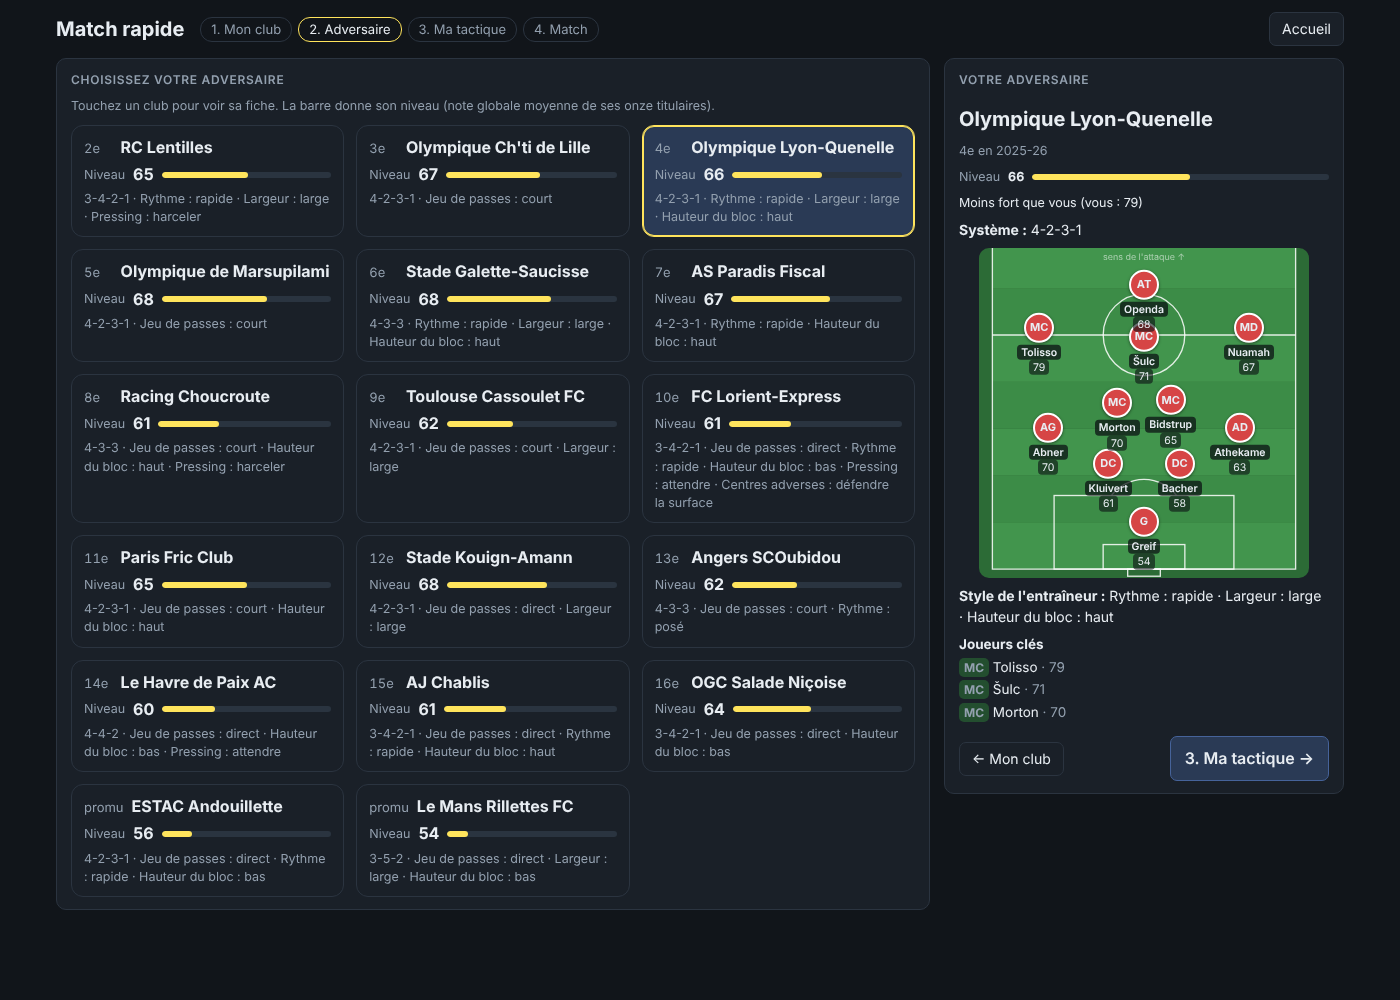
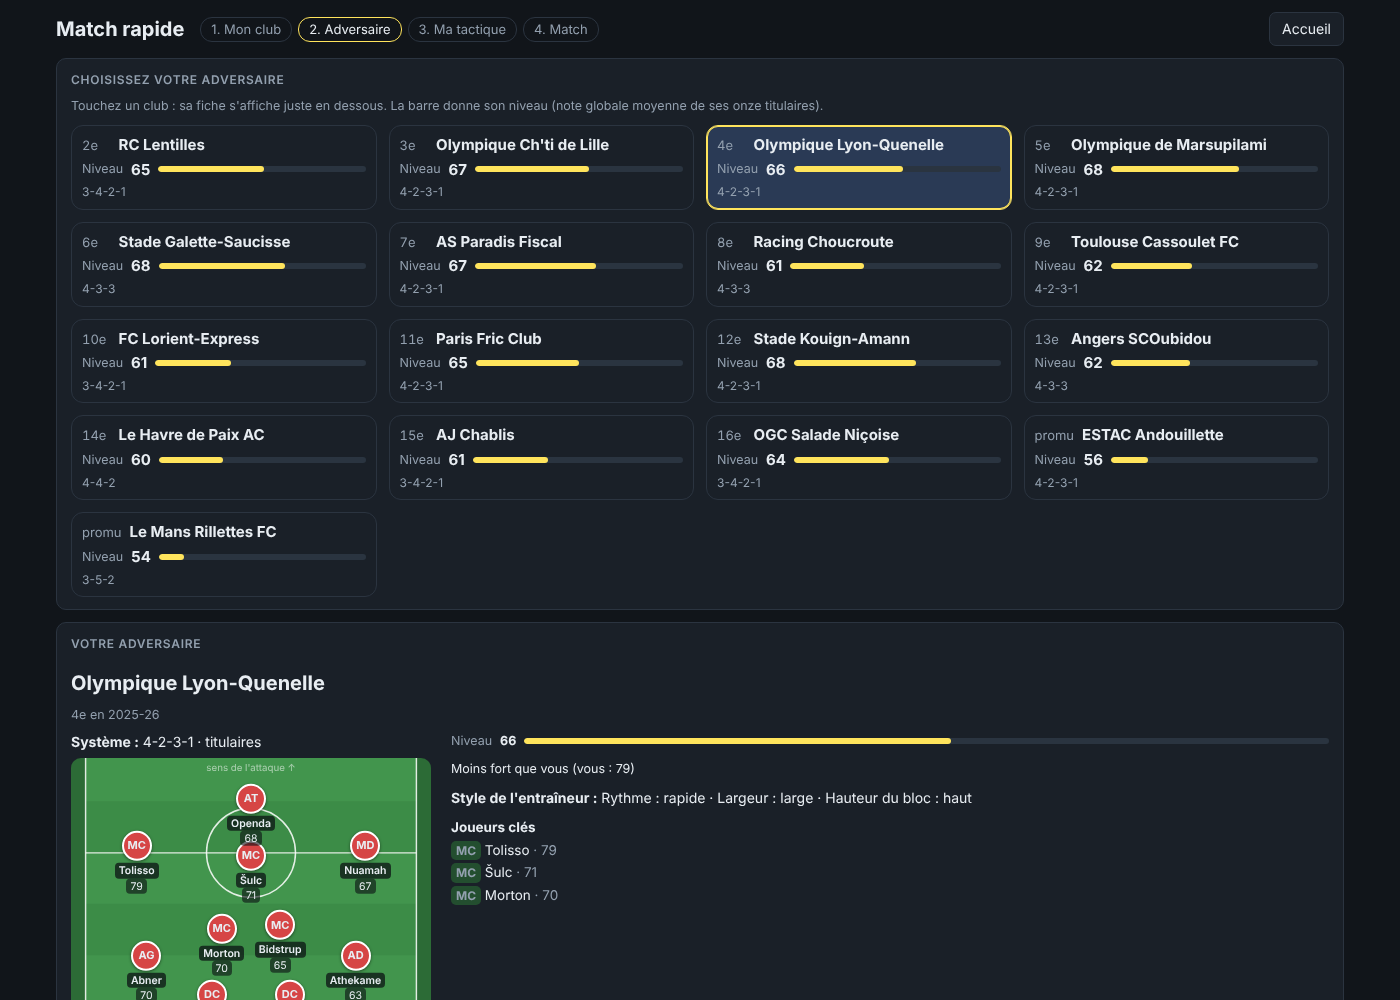
Page Adversaire : le choix de l'équipe en haut, sa fiche (système, titulaires, niveau, style) juste en dessous ; clubs sur une ligne à faire défiler sur téléphone (n° 139)
Claude-Session: https://claude.ai/code/session_018L9abibPrDnUhtDhDN8MfU

diff --git a/construction.html b/construction.html
@@ -33,25 +33,29 @@
   .clubmode header .steps span.off { opacity: .45; cursor: default; }
   .clubmode .noclub, body:not(.clubmode) .onlyclub { display: none !important; }
   /* étape 2 : l'adversaire (n° 138) — liste des clubs à gauche, sa fiche à droite (système, onze, niveau, style, joueurs clés) */
-  .advwrap { display: grid; grid-template-columns: minmax(0, 1fr) 400px; gap: 12px 14px; align-items: start; }
-  .advs { grid-template-columns: repeat(auto-fill, minmax(220px, 1fr)); gap: 10px; }
-  .advs .club { padding: 10px 12px; }
-  .advs .club b { font-size: 16px; }
+  /* n° 139 (remarque de Frédéric) : le choix de l'équipe en haut, la fiche de l'adversaire (tactique, titulaires) juste en dessous */
+  .advwrap { display: flex; flex-direction: column; gap: 12px; }
+  .advs { grid-template-columns: repeat(auto-fill, minmax(190px, 1fr)); gap: 8px; }
+  .advs .club { padding: 8px 10px; gap: 3px; }
+  .advs .club b { font-size: 15px; }
+  .advs .club .stars { font-size: 12px; }
+  .advgrid { display: grid; grid-template-columns: minmax(0, 360px) minmax(0, 1fr); gap: 12px 20px; align-items: start; }
+  .advinfo { display: flex; flex-direction: column; gap: 10px; }
   .advs .club.on { border-color: var(--accent); box-shadow: 0 0 0 1px var(--accent) inset; }
   .advs .club.mine { opacity: .45; cursor: default; }
   .lvl { display: flex; align-items: center; gap: 8px; font-size: 12.5px; color: var(--muted); }
   .lvl i { flex: 1; height: 6px; border-radius: 3px; background: #2a3440; overflow: hidden; display: block; min-width: 40px; }
   .lvl i b { display: block; height: 100%; border-radius: 3px; background: var(--accent); }
-  .advd { position: sticky; top: 10px; display: flex; flex-direction: column; gap: 8px; }
+  .advd { display: flex; flex-direction: column; gap: 8px; }
   .advd .who { font-size: 20px; font-weight: 650; }
-  .advd .pitch { max-width: 330px; margin: 0 auto; }
+  .advd .pitch { max-width: 360px; margin: 0 auto; }
   .advd .tok { cursor: default; }
   .advd .tok .ball { background: var(--red, #d64545); width: 30px; height: 30px; font-size: 11px; }
   .advd .spot { width: 70px; }
   .advd .tok .nm { max-width: 70px; font-size: 10.5px; }
   .advd .keys { display: flex; flex-direction: column; gap: 3px; font-size: 13.5px; }
   .advd .keys span { color: var(--muted); }
-  .advd .row { justify-content: space-between; }
+  .advd .row { justify-content: flex-end; gap: 10px; }
   .advsum { font-size: 14px; }
   .advsum b { font-size: 15px; }
   header .right { margin-left: auto; }
@@ -166,7 +170,11 @@
 
   @media (max-width: 900px) {
     .buy, .tac, .advwrap { grid-template-columns: minmax(0, 1fr); }
-    .advd { position: static; order: -1; }
+    /* téléphone, tablette : les clubs sur une ligne qu'on fait défiler du doigt, la fiche juste dessous */
+    .advs { display: flex; overflow-x: auto; scroll-snap-type: x proximity; padding-bottom: 6px; -webkit-overflow-scrolling: touch; }
+    .advs .club { flex: 0 0 168px; scroll-snap-align: start; }
+    .advgrid { grid-template-columns: minmax(0, 1fr); }
+    .advd .row { justify-content: space-between; }
     .home { grid-template-columns: 1fr; margin-top: 3vh; }
     .list { max-height: none; }
     .valid { margin-left: 0; justify-content: flex-start; }
@@ -205,7 +213,7 @@
     <div class="advwrap">
       <div class="card">
         <h2>Choisissez votre adversaire</h2>
-        <p class="hint" style="margin:0 0 10px">Touchez un club pour voir sa fiche. La barre donne son niveau (note globale moyenne de ses onze titulaires).</p>
+        <p class="hint" style="margin:0 0 10px">Touchez un club : sa fiche s'affiche juste en dessous. La barre donne son niveau (note globale moyenne de ses onze titulaires).</p>
         <div class="clubs advs" id="advs"></div>
       </div>
       <div class="card advd" id="advD"></div>
@@ -472,7 +480,7 @@ const rang = C => C.classement ? C.classement + (C.classement === 1 ? 'er' : 'e'
 function drawAdv() {
   const mine = CLUBS.find(C => C.id === S.club);
   $('advs').innerHTML = CLUBS.map(C => C.id === S.club ? '' : '<button class="club' + (C.id === S.adv ? ' on' : '') + '" data-adv="' + esc(C.id) + '"><div class="top"><span class="rk">' + (C.classement ? C.classement + (C.classement === 1 ? 'er' : 'e') : 'promu') + '</span><b>' + esc(C.nom) + '</b></div>'
-    + levelBar(C) + '<div class="stars">' + esc(formName(C)) + ' · ' + esc(styleOf(C)) + '</div></button>').join('');
+    + levelBar(C) + '<div class="stars">' + esc(formName(C)) + '</div></button>').join('');      // le style est dans la fiche, juste dessous
   const C = CLUBS.find(x => x.id === S.adv); if (!C) { $('advD').innerHTML = '<span class="muted">Choisissez un club.</span>'; return; }
   const F = D.formations.find(f => f.id === C.formation) || D.formations[0];
   let h = pitchSvg();
@@ -480,14 +488,14 @@ function drawAdv() {
   const m = moyenne(C.titulaires), me = mine ? moyenne(mine.titulaires) : null, d = me == null ? 0 : Math.round(m - me);
   const keys = C.titulaires.slice().sort((a, b) => b.note - a.note).slice(0, 3);
   $('advD').innerHTML = '<h2>Votre adversaire</h2><div class="who">' + esc(C.nom) + '</div><div class="small muted">' + rang(C) + '</div>'
-    + levelBar(C) + (me == null ? '' : '<div class="small">' + (Math.abs(d) <= 2 ? 'Niveau proche du vôtre (' : d > 0 ? 'Plus fort que vous (' : 'Moins fort que vous (') + 'vous : ' + fmtN(me) + ')</div>')
-    + '<div><b>Système :</b> ' + esc(F.name) + '</div><div class="pitch">' + h + '</div>'
+    + '<div class="advgrid"><div><div style="margin-bottom:6px"><b>Système :</b> ' + esc(F.name) + ' · titulaires</div><div class="pitch">' + h + '</div></div>'
+    + '<div class="advinfo">' + levelBar(C) + (me == null ? '' : '<div class="small">' + (Math.abs(d) <= 2 ? 'Niveau proche du vôtre (' : d > 0 ? 'Plus fort que vous (' : 'Moins fort que vous (') + 'vous : ' + fmtN(me) + ')</div>')
     + '<div><b>Style de l\'entraîneur :</b> ' + esc(styleOf(C)) + '</div>'
-    + '<div class="keys"><b>Joueurs clés</b>' + keys.map(j => '<div>' + tag(j.poste) + ' ' + esc(j.nom) + ' <span>· ' + fmtN(j.note) + '</span></div>').join('') + '</div>'
+    + '<div class="keys"><b>Joueurs clés</b>' + keys.map(j => '<div>' + tag(j.poste) + ' ' + esc(j.nom) + ' <span>· ' + fmtN(j.note) + '</span></div>').join('') + '</div></div></div>'
     + '<div class="row" style="margin-top:6px"><button id="advBack">← Mon club</button><button class="main go-btn" id="advNext">3. Ma tactique →</button></div>';
 }
 document.addEventListener('click', e => {
-  const b = e.target.closest('[data-adv]'); if (b && b.closest('#vAdv')) { S.adv = b.dataset.adv; drawAdv(); if (window.innerWidth <= 900) $('advD').scrollIntoView({ behavior: 'smooth' }); return; }
+  const b = e.target.closest('[data-adv]'); if (b && b.closest('#vAdv')) { const x = $('advs').scrollLeft; S.adv = b.dataset.adv; drawAdv(); $('advs').scrollLeft = x; return; }
   if (e.target.id === 'advNext') { save(); show('vTac'); }
   else if (e.target.id === 'advBack') show('vClubs');
 });

diff --git a/equipe.html b/equipe.html
@@ -33,25 +33,29 @@
   .clubmode header .steps span.off { opacity: .45; cursor: default; }
   .clubmode .noclub, body:not(.clubmode) .onlyclub { display: none !important; }
   /* étape 2 : l'adversaire (n° 138) — liste des clubs à gauche, sa fiche à droite (système, onze, niveau, style, joueurs clés) */
-  .advwrap { display: grid; grid-template-columns: minmax(0, 1fr) 400px; gap: 12px 14px; align-items: start; }
-  .advs { grid-template-columns: repeat(auto-fill, minmax(220px, 1fr)); gap: 10px; }
-  .advs .club { padding: 10px 12px; }
-  .advs .club b { font-size: 16px; }
+  /* n° 139 (remarque de Frédéric) : le choix de l'équipe en haut, la fiche de l'adversaire (tactique, titulaires) juste en dessous */
+  .advwrap { display: flex; flex-direction: column; gap: 12px; }
+  .advs { grid-template-columns: repeat(auto-fill, minmax(190px, 1fr)); gap: 8px; }
+  .advs .club { padding: 8px 10px; gap: 3px; }
+  .advs .club b { font-size: 15px; }
+  .advs .club .stars { font-size: 12px; }
+  .advgrid { display: grid; grid-template-columns: minmax(0, 360px) minmax(0, 1fr); gap: 12px 20px; align-items: start; }
+  .advinfo { display: flex; flex-direction: column; gap: 10px; }
   .advs .club.on { border-color: var(--accent); box-shadow: 0 0 0 1px var(--accent) inset; }
   .advs .club.mine { opacity: .45; cursor: default; }
   .lvl { display: flex; align-items: center; gap: 8px; font-size: 12.5px; color: var(--muted); }
   .lvl i { flex: 1; height: 6px; border-radius: 3px; background: #2a3440; overflow: hidden; display: block; min-width: 40px; }
   .lvl i b { display: block; height: 100%; border-radius: 3px; background: var(--accent); }
-  .advd { position: sticky; top: 10px; display: flex; flex-direction: column; gap: 8px; }
+  .advd { display: flex; flex-direction: column; gap: 8px; }
   .advd .who { font-size: 20px; font-weight: 650; }
-  .advd .pitch { max-width: 330px; margin: 0 auto; }
+  .advd .pitch { max-width: 360px; margin: 0 auto; }
   .advd .tok { cursor: default; }
   .advd .tok .ball { background: var(--red, #d64545); width: 30px; height: 30px; font-size: 11px; }
   .advd .spot { width: 70px; }
   .advd .tok .nm { max-width: 70px; font-size: 10.5px; }
   .advd .keys { display: flex; flex-direction: column; gap: 3px; font-size: 13.5px; }
   .advd .keys span { color: var(--muted); }
-  .advd .row { justify-content: space-between; }
+  .advd .row { justify-content: flex-end; gap: 10px; }
   .advsum { font-size: 14px; }
   .advsum b { font-size: 15px; }
   header .right { margin-left: auto; }
@@ -166,7 +170,11 @@
 
   @media (max-width: 900px) {
     .buy, .tac, .advwrap { grid-template-columns: minmax(0, 1fr); }
-    .advd { position: static; order: -1; }
+    /* téléphone, tablette : les clubs sur une ligne qu'on fait défiler du doigt, la fiche juste dessous */
+    .advs { display: flex; overflow-x: auto; scroll-snap-type: x proximity; padding-bottom: 6px; -webkit-overflow-scrolling: touch; }
+    .advs .club { flex: 0 0 168px; scroll-snap-align: start; }
+    .advgrid { grid-template-columns: minmax(0, 1fr); }
+    .advd .row { justify-content: space-between; }
     .home { grid-template-columns: 1fr; margin-top: 3vh; }
     .list { max-height: none; }
     .valid { margin-left: 0; justify-content: flex-start; }
@@ -205,7 +213,7 @@
     <div class="advwrap">
       <div class="card">
         <h2>Choisissez votre adversaire</h2>
-        <p class="hint" style="margin:0 0 10px">Touchez un club pour voir sa fiche. La barre donne son niveau (note globale moyenne de ses onze titulaires).</p>
+        <p class="hint" style="margin:0 0 10px">Touchez un club : sa fiche s'affiche juste en dessous. La barre donne son niveau (note globale moyenne de ses onze titulaires).</p>
         <div class="clubs advs" id="advs"></div>
       </div>
       <div class="card advd" id="advD"></div>
@@ -472,7 +480,7 @@ const rang = C => C.classement ? C.classement + (C.classement === 1 ? 'er' : 'e'
 function drawAdv() {
   const mine = CLUBS.find(C => C.id === S.club);
   $('advs').innerHTML = CLUBS.map(C => C.id === S.club ? '' : '<button class="club' + (C.id === S.adv ? ' on' : '') + '" data-adv="' + esc(C.id) + '"><div class="top"><span class="rk">' + (C.classement ? C.classement + (C.classement === 1 ? 'er' : 'e') : 'promu') + '</span><b>' + esc(C.nom) + '</b></div>'
-    + levelBar(C) + '<div class="stars">' + esc(formName(C)) + ' · ' + esc(styleOf(C)) + '</div></button>').join('');
+    + levelBar(C) + '<div class="stars">' + esc(formName(C)) + '</div></button>').join('');      // le style est dans la fiche, juste dessous
   const C = CLUBS.find(x => x.id === S.adv); if (!C) { $('advD').innerHTML = '<span class="muted">Choisissez un club.</span>'; return; }
   const F = D.formations.find(f => f.id === C.formation) || D.formations[0];
   let h = pitchSvg();
@@ -480,14 +488,14 @@ function drawAdv() {
   const m = moyenne(C.titulaires), me = mine ? moyenne(mine.titulaires) : null, d = me == null ? 0 : Math.round(m - me);
   const keys = C.titulaires.slice().sort((a, b) => b.note - a.note).slice(0, 3);
   $('advD').innerHTML = '<h2>Votre adversaire</h2><div class="who">' + esc(C.nom) + '</div><div class="small muted">' + rang(C) + '</div>'
-    + levelBar(C) + (me == null ? '' : '<div class="small">' + (Math.abs(d) <= 2 ? 'Niveau proche du vôtre (' : d > 0 ? 'Plus fort que vous (' : 'Moins fort que vous (') + 'vous : ' + fmtN(me) + ')</div>')
-    + '<div><b>Système :</b> ' + esc(F.name) + '</div><div class="pitch">' + h + '</div>'
+    + '<div class="advgrid"><div><div style="margin-bottom:6px"><b>Système :</b> ' + esc(F.name) + ' · titulaires</div><div class="pitch">' + h + '</div></div>'
+    + '<div class="advinfo">' + levelBar(C) + (me == null ? '' : '<div class="small">' + (Math.abs(d) <= 2 ? 'Niveau proche du vôtre (' : d > 0 ? 'Plus fort que vous (' : 'Moins fort que vous (') + 'vous : ' + fmtN(me) + ')</div>')
     + '<div><b>Style de l\'entraîneur :</b> ' + esc(styleOf(C)) + '</div>'
-    + '<div class="keys"><b>Joueurs clés</b>' + keys.map(j => '<div>' + tag(j.poste) + ' ' + esc(j.nom) + ' <span>· ' + fmtN(j.note) + '</span></div>').join('') + '</div>'
+    + '<div class="keys"><b>Joueurs clés</b>' + keys.map(j => '<div>' + tag(j.poste) + ' ' + esc(j.nom) + ' <span>· ' + fmtN(j.note) + '</span></div>').join('') + '</div></div></div>'
     + '<div class="row" style="margin-top:6px"><button id="advBack">← Mon club</button><button class="main go-btn" id="advNext">3. Ma tactique →</button></div>';
 }
 document.addEventListener('click', e => {
-  const b = e.target.closest('[data-adv]'); if (b && b.closest('#vAdv')) { S.adv = b.dataset.adv; drawAdv(); if (window.innerWidth <= 900) $('advD').scrollIntoView({ behavior: 'smooth' }); return; }
+  const b = e.target.closest('[data-adv]'); if (b && b.closest('#vAdv')) { const x = $('advs').scrollLeft; S.adv = b.dataset.adv; drawAdv(); $('advs').scrollLeft = x; return; }
   if (e.target.id === 'advNext') { save(); show('vTac'); }
   else if (e.target.id === 'advBack') show('vClubs');
 });

diff --git a/CLAUDE.md b/CLAUDE.md
@@ -38,7 +38,7 @@ Ce qu'il a dit et qu'il faut garder en tête :
 **Quatre pages, à garder dans le même dossier** (sur le site de Frédéric, `index.html` est la racine) :
 
 - `index.html` : **l'accueil** (n° 98, revu au n° 111). Deux grandes cartes : « Match rapide » (→ `equipe.html#clubs` : choix du club, de l'adversaire et de la tactique) et « La Coupe en carton » (→ `coupe.html`). Avant le n° 111 : « Créer mon équipe », « Choisir un club », « Match rapide » (standard contre standard). Dessous, la carte **« Mon club »** (seulement un club placé dans la page équipe ; une équipe construite n'y apparaît plus) si une équipe a été enregistrée dans `equipe.html` : nom, formation, note moyenne, adversaire, les onze titulaires sur un petit terrain, boutons « Jouer le match » et « Modifier l'équipe » (→ `equipe.html#reprendre`). Plus aucun nom de club écrit à la main dans l'accueil (n° 112 : étiquettes générales « 18 clubs de Ligue 1 », « 6 systèmes de jeu », « Le style de chaque entraîneur ») : un nom changé dans `equipes.json` (champ `nom`, et `court` pour le chrono ; ne jamais changer `id`) passe partout après `node build.js`, sauf dans les sauvegardes du navigateur (club enregistré, coupe en cours) et dans quelques tests (`tools/equipe.js`). Page écrite à la main, sans `node build.js` ; l'aperçu de l'équipe est enregistré dans le navigateur par `equipe.html` (sur un site, toutes les pages partagent cet enregistrement ; en fichiers ouverts par double-clic, Chrome le partage aussi). Captures `docs/accueil.png`, `docs/accueil-telephone.png`.
-- `equipe.html` : la construction d'équipe (voir « Construction d'équipe »). Sans rien après `#`, elle renvoie à l'accueil. **Depuis le n° 138, le match rapide s'y fait en quatre étapes, chacune sur sa page** (demande de Frédéric) : **1. Mon club** (liste des 18 clubs), **2. Adversaire** (les 17 autres clubs avec leur niveau et leur style ; fiche du club choisi : niveau comparé au vôtre, système et onze sur un petit terrain, style de l'entraîneur en clair, trois joueurs clés), **3. Ma tactique** (formation, placement, consignes, rappel de l'adversaire avec « Changer d'adversaire »), **4. Passer au match**. Les étapes du haut se touchent pour revenir en arrière. Avec un club, plus de nom d'équipe, ni « Enregistrer », ni « Exporter » : l'équipe s'enregistre seule en passant à l'étape 3 et au match. La construction d'équipe (`#carton`) garde ses deux écrans d'avant. Capture `docs/equipe-adversaire.png`.
+- `equipe.html` : la construction d'équipe (voir « Construction d'équipe »). Sans rien après `#`, elle renvoie à l'accueil. **Depuis le n° 138, le match rapide s'y fait en quatre étapes, chacune sur sa page** (demande de Frédéric) : **1. Mon club** (liste des 18 clubs), **2. Adversaire** (en haut, les 17 autres clubs avec leur niveau et leur système, en grille sur ordinateur, sur une ligne qu'on fait défiler du doigt sur téléphone ; juste en dessous, la fiche du club choisi : système et onze sur un petit terrain, niveau comparé au vôtre, style de l'entraîneur en clair, trois joueurs clés ; n° 139), **3. Ma tactique** (formation, placement, consignes, rappel de l'adversaire avec « Changer d'adversaire »), **4. Passer au match**. Les étapes du haut se touchent pour revenir en arrière. Avec un club, plus de nom d'équipe, ni « Enregistrer », ni « Exporter » : l'équipe s'enregistre seule en passant à l'étape 3 et au match. La construction d'équipe (`#carton`) garde ses deux écrans d'avant. Capture `docs/equipe-adversaire.png`.
 - `coupe.html` : **la Coupe en carton** (n° 110, voir « La Coupe en carton »). Carte « La Coupe en carton » sur l'accueil, sous les trois choix ; elle dit où en est la partie (« Partie en cours avec … : 8e de finale »).
 - `match.html` : le match. Il contient tout et s'ouvre dans n'importe quel navigateur (double-clic, ou `xdg-open match.html`). Après une modification du moteur ou de la page (`page-match.html`), le refaire avec `node build.js`. Lien « Accueil » en haut à droite des onglets.
 
@@ -750,6 +750,7 @@ Sixième séance (9 octobre 2026) : axe « niveaux », en commençant par la pos
 | 136 | Remarques de Frédéric (21 octobre 2026) : après la fusion du n° 135, « je n'ai pas vu de différence » sur son téléphone ; et l'adresse du match est « hyper grande » (toute l'équipe, notes comprises, après `#partie=`). Vérifié : le site (Hostinger, relié à `main`) servait bien la nouvelle version, mais seulement depuis 18 h 31 ; et le serveur ne dit pas au navigateur de redemander les pages, donc le téléphone peut garder l'ancienne. Ses choix : adresse propre (partie gardée dans le navigateur), et réglage du cache | **Adresse propre** : la page équipe, la coupe et l'accueil (« Jouer le match ») gardent la partie dans le navigateur (`match-partie`) et ouvrent `match.html` ; la page de match la relit (rechargement compris). Ancienne adresse `#partie=` encore lue, puis retirée de l'adresse. Match de coupe gardé : repris seulement s'il reste à jouer ; partie illisible : oubliée. **Cache** : nouveau fichier `.htaccess` (lu par Hostinger) : pages, scripts et données (`.html`, `.js`, `.json`) en `Cache-Control: no-cache`, le navigateur demande toujours au serveur si la page a changé | `tools/equipe.js` (adresse propre après « Passer au match »), `tools/coupe.js` (bouton « Jouer le match » vers `match.html`, match de coupe bien repris) sans échec ; parcours accueil → club → match, rechargement, bouton de l'accueil, ancienne adresse nettoyée : vérifiés dans Chromium. `.htaccess` à vérifier une fois en ligne (en-tête `Cache-Control` sur `match.html`) |
 | 137 | Deux tests de page échouaient depuis le n° 134 : `tools/page.js` (match d'essai n° 7 sans aucun tir en 10 minutes, donc aucun repère sur la barre ; Élite – Faible sur un numéro tiré au hasard, l'Élite ne tirait pas toujours plus) et `tools/replay.js` (match n° 22 sans but) | Numéros cherchés avec le moteur : n° 16 (équipes standard, 5 tirs, un but à 1:21) pour `tools/page.js` et `tools/replay.js` ; n° 5 pour Élite – Faible (3 tirs à 0). Dans le n° 16, le ballon est arrêté de 0:47 à 1:07 : l'essai « le changement attend le prochain arrêt de jeu » se fait à 1:15 (à 1:00, il s'appliquait tout de suite, ce qui est le bon comportement pendant un arrêt de jeu). Rien ne change dans le jeu | `tools/page.js` et `tools/replay.js` sans échec |
 | 138 | Demande de Frédéric (21 octobre 2026) : la page équipe mettait tout sur un écran (formation, tactique, joueurs, adversaire, nom de l'équipe…). Il veut : 1. choisir son équipe, 2. choisir l'adversaire sur une page séparée qui montre son système et son niveau, 3. sa tactique et sa formation, 4. le match. Ses choix : tactique sur une page séparée avant le match (pas l'écran Tactique du match) ; sur la page Adversaire : système et onze sur un terrain, niveau, style de l'entraîneur, joueurs clés ; nom, enregistrer, exporter retirés ; coupe inchangée | `construction.html` : nouvel écran « Adversaire » (`vAdv`) entre le choix du club et la tactique ; quatre étapes en haut (« 1. Mon club · 2. Adversaire · 3. Ma tactique · 4. Match »), qu'on touche pour naviguer ; niveau = note globale moyenne des titulaires, avec une barre de la plus faible à la plus forte équipe de Ligue 1, et comparaison avec votre club (« niveau proche du vôtre » à 2 points près) ; style = consignes du club en clair. Étape 3 : nom, Enregistrer, Exporter, « Changer de club » et liste déroulante des adversaires cachés pour un club ; cadre « Match » : l'adversaire rappelé, « Changer d'adversaire », « 4. Passer au match → ». Construction d'équipe (`#carton`) inchangée | `tools/equipe.js` (adapté : page Adversaire, fiche, étape 3 sans nom ni export, retour par « 1. Mon club »), `tools/coupe.js` sans échec ; vérifié dans Chromium sur ordinateur et téléphone droit (fiche de l'adversaire en haut sur petit écran) |
+| 139 | Remarque de Frédéric (21 octobre 2026) sur la page Adversaire : sur téléphone, la fiche de l'adversaire passait au-dessus de la liste des équipes. Il veut le choix de l'équipe en haut, et juste en dessous sa tactique et ses titulaires | La liste des clubs toujours en haut, la fiche juste en dessous (plus de colonne à droite) ; sur téléphone et tablette, les clubs sur une seule ligne qu'on fait défiler du doigt (la ligne ne bouge pas quand on en touche un) ; cartes raccourcies au niveau et au système (le style est dans la fiche) ; fiche : terrain avec les titulaires à gauche, niveau, style et joueurs clés à droite (l'un sous l'autre sur téléphone) | `tools/equipe.js` sans échec ; vérifié dans Chromium sur ordinateur et téléphone droit |
 | 58 | Tournoi complet (`node tools/levels.js 60`) | — | Possession de l'équipe forte contre Faible : 56 à 59 %. Entre niveaux voisins : toujours 48 à 52 %. Élite contre Faible : 10,2 à 0,05. Passes réussies : l'équipe forte n'en réussit toujours pas plus que l'autre contre le même adversaire |
 
 | 59 | Demande de Frédéric : l'équipe forte doit garder le ballon. Découverte : le « goût du risque » de Faible (7,8) la rendait plus prudente que l'Élite (13,9) | Prudence et patience dépendent aussi de la lucidité : un joueur lucide sait ce que coûte une passe forcée et attend avant de forcer (rien à 14) | Seul : +1 à 3 points de possession |
